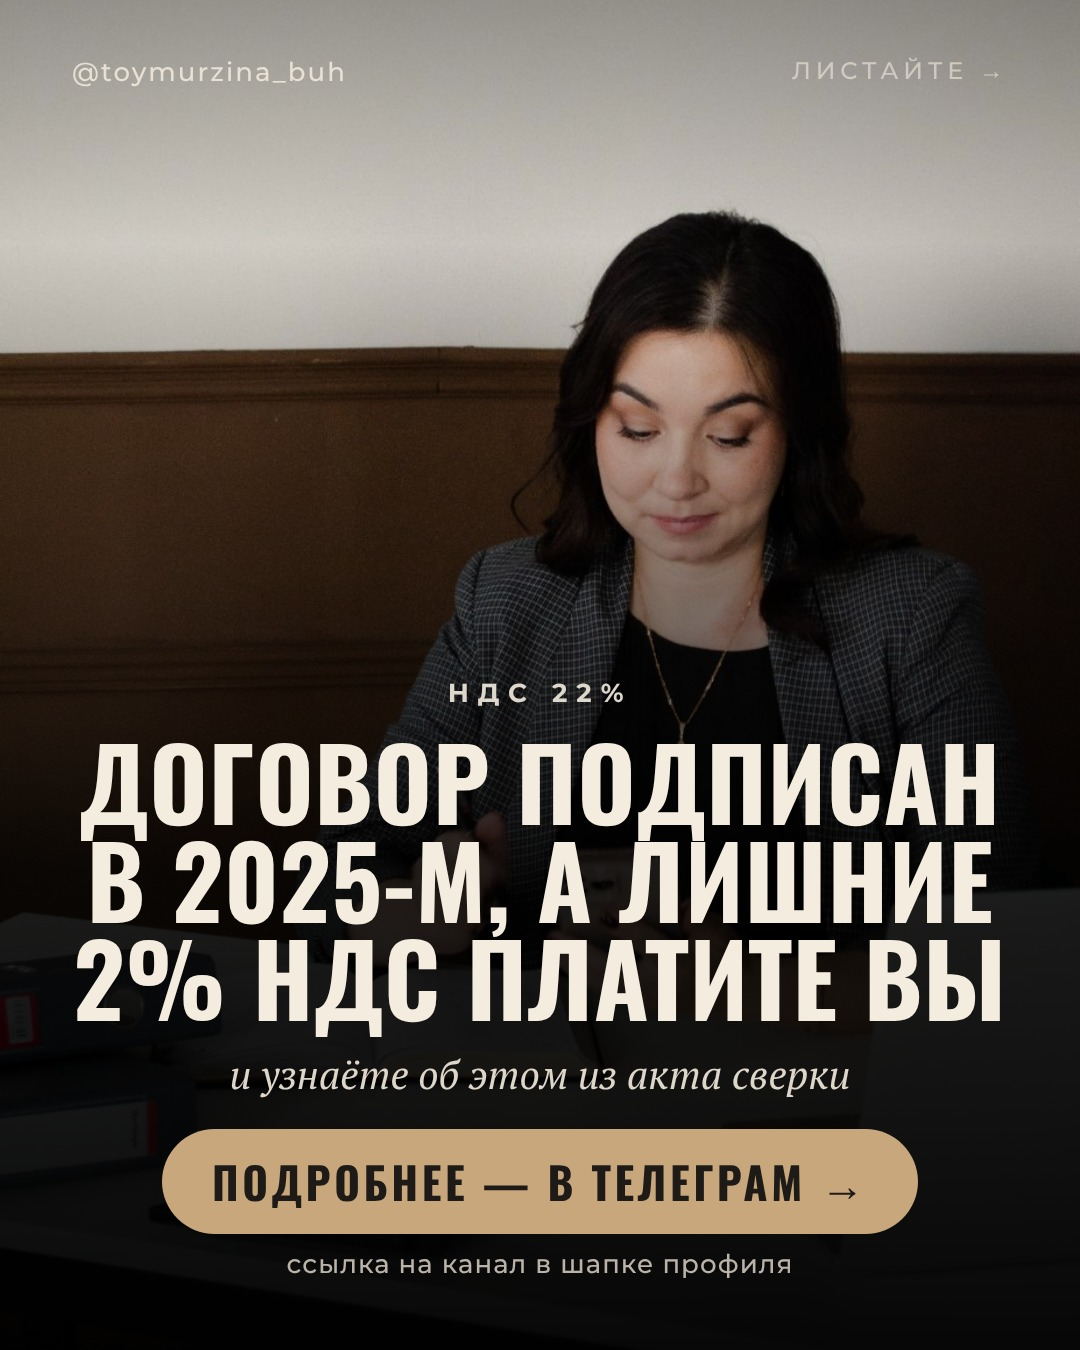
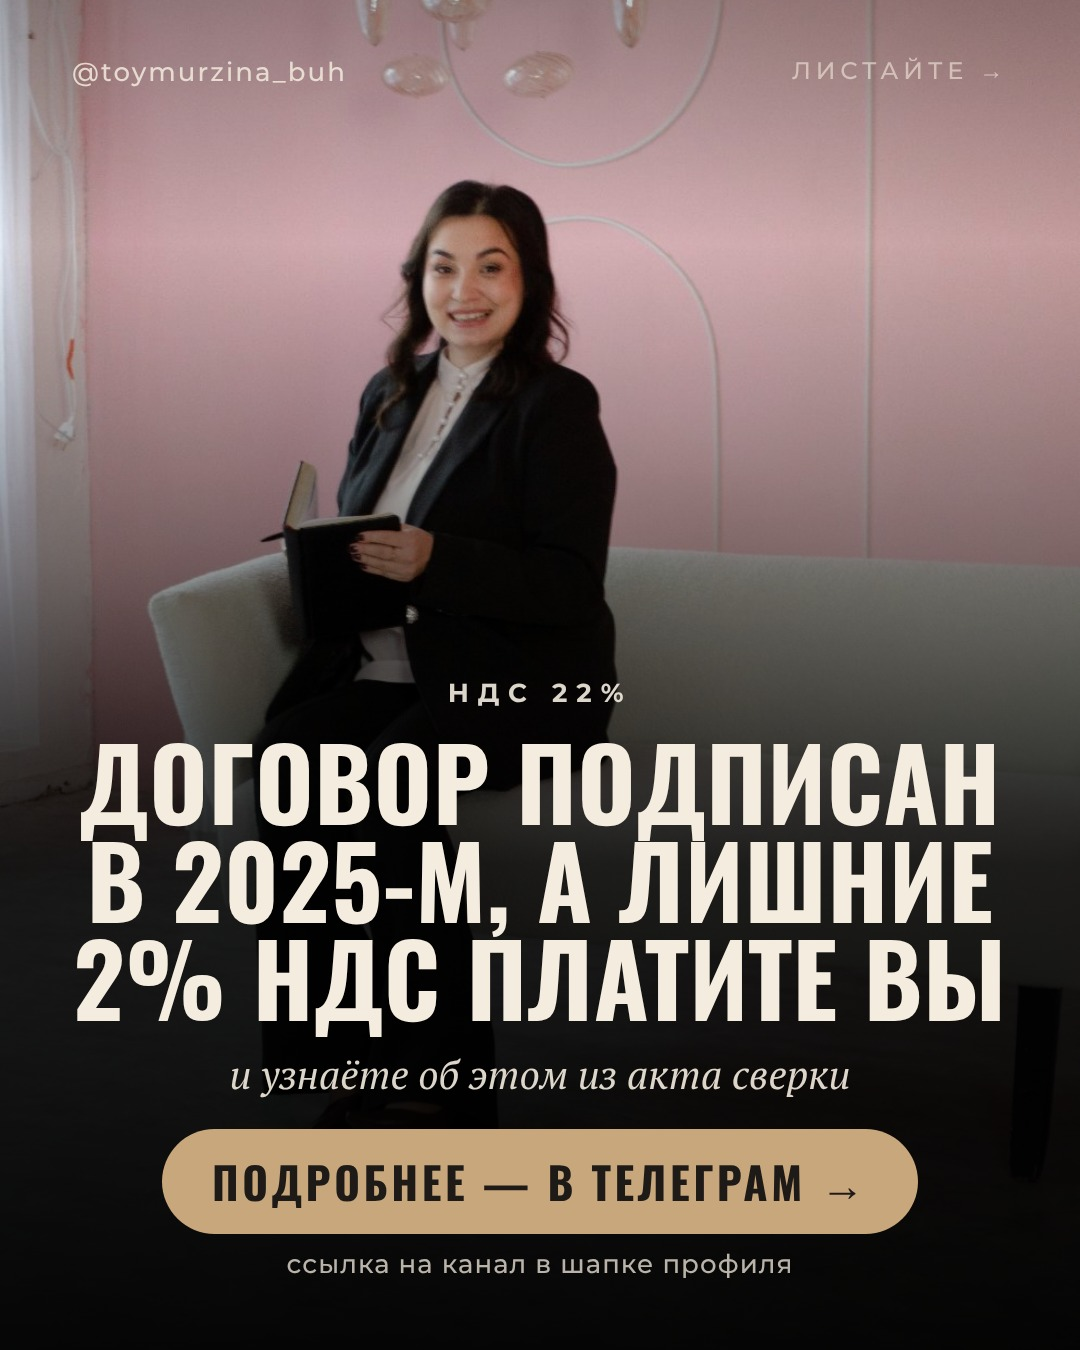
Карусель НДС 22%: новое фото обложки (DSC_1544)
Claude-Session: https://claude.ai/code/session_01Rsqfjaxu59fiZguhjD3EQz

diff --git a/content/carousels_g1004.py b/content/carousels_g1004.py
@@ -11,4 +11,4 @@ CAROUSELS = [{'date': '2026-10-04',
              ('05', 'Допсоглашение', 'Самый спокойный путь — зафиксировать цену и порядок НДС допсоглашением. Без него спор с контрагентом почти гарантирован.'),
              ('итог', 'Проверьте договоры сейчас', 'Как формулировать условие о цене и что писать в допсоглашении — разбираю в Телеграм-канале. Ссылка в шапке профиля.')],
   'caption': '',
-  'photo': ('DSC_1405.jpg', '75%')}]
+  'photo': ('DSC_1544.jpg', '35%')}]
